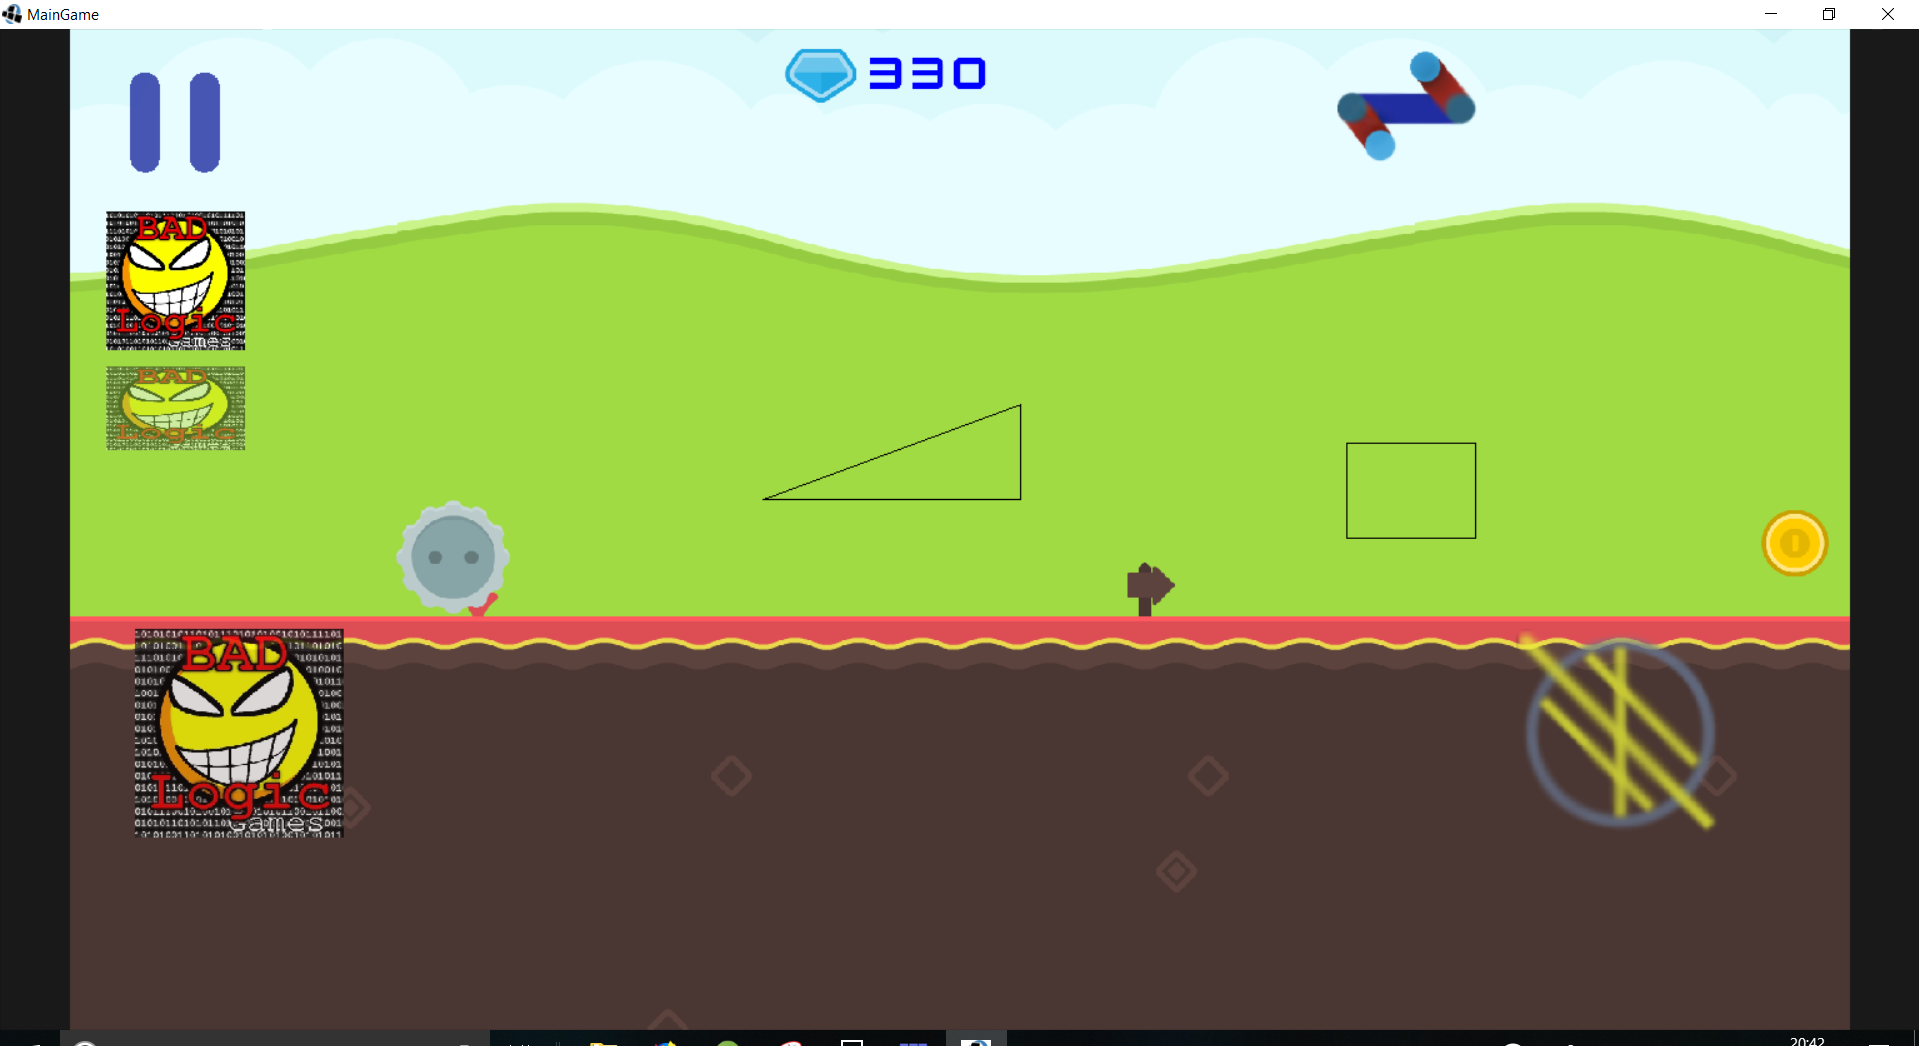
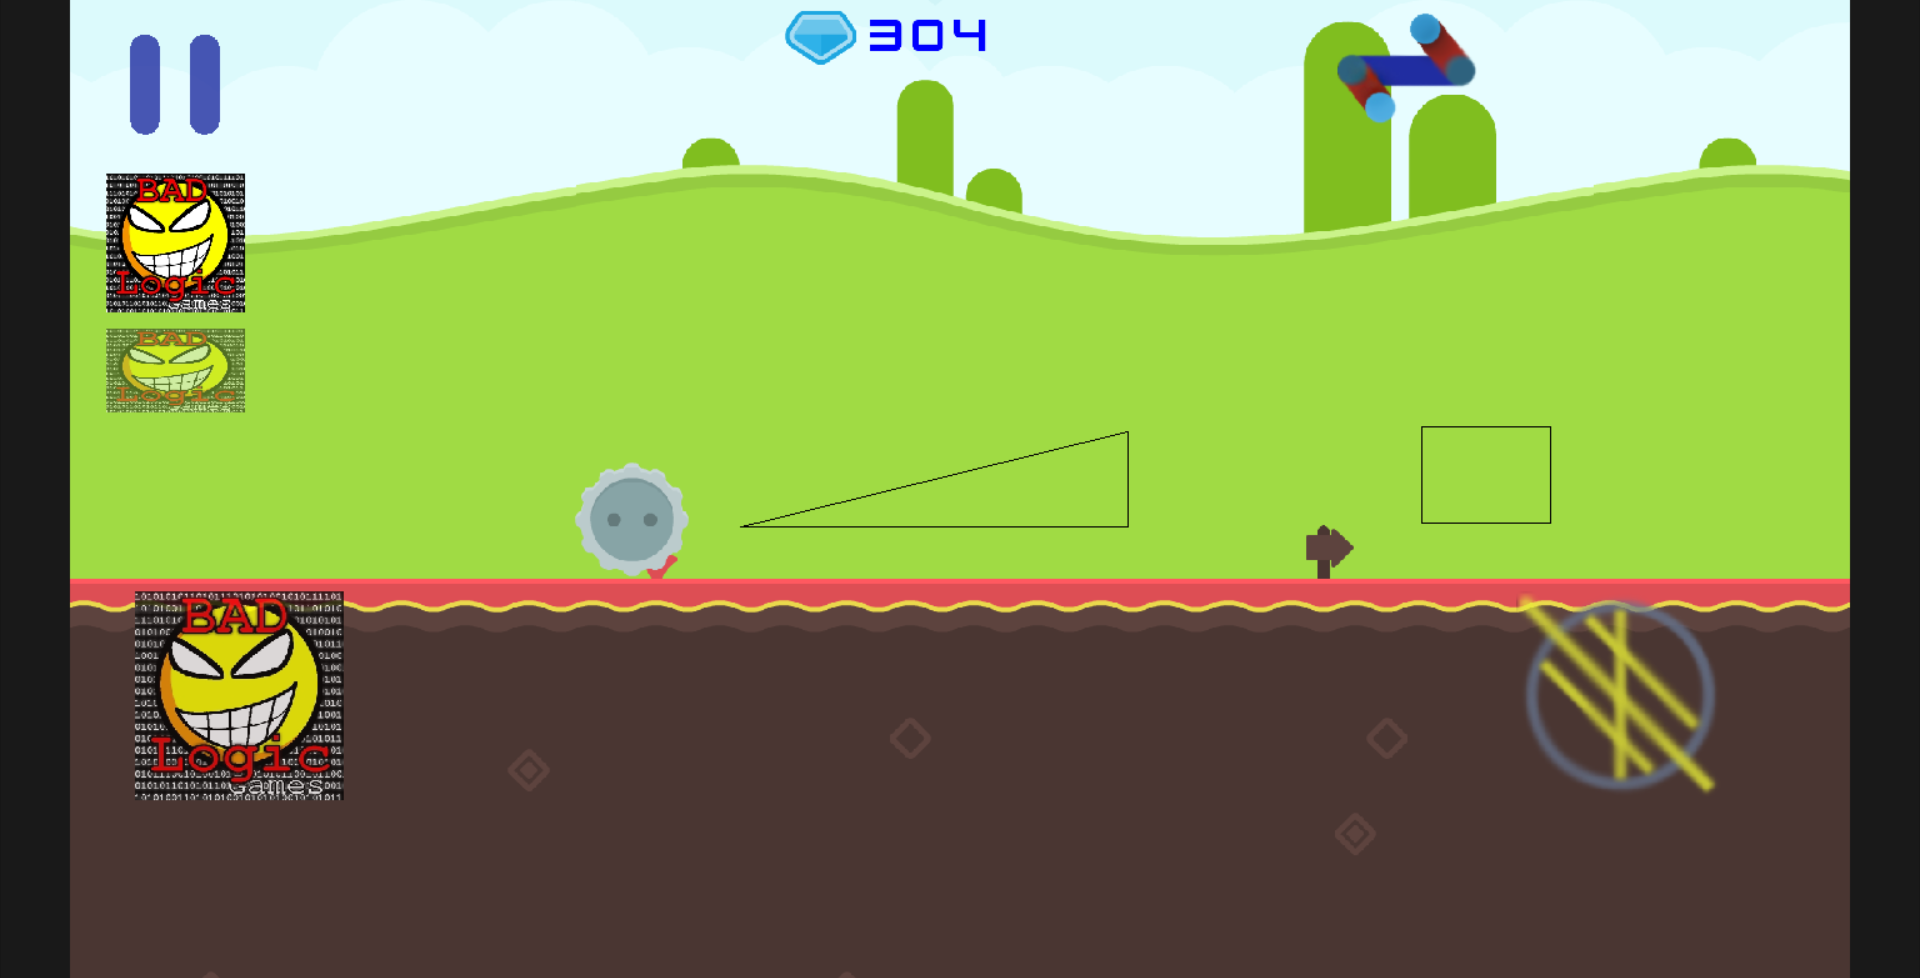
rage mode enhanced

diff --git a/core/src/com/kunal/PlayGround/TypeTwoArea/TypeTwoArea.java b/core/src/com/kunal/PlayGround/TypeTwoArea/TypeTwoArea.java
@@ -776,7 +776,7 @@ public class TypeTwoArea implements Screen {
         //==-------------------------------------------------------------------------------------
 
 
-        System.out.println(cam.position.x);
+        //System.out.println(cam.position.x);
 
         coin1.setAlpha(1-coin1Alpha);
         coin2.setAlpha(1-coin2Alpha);
@@ -855,10 +855,15 @@ public class TypeTwoArea implements Screen {
         //System.out.println(AllVariables.BackWheel.getLinearVelocity().x);
 
         if (AllVariables.PresentLevelNumber >= 6)
-        if (AllVariables.BackWheel.getLinearVelocity().x >= 20f) {
-            AllVariables.BackWheel.setLinearVelocity((AllVariables.BackWheel.getLinearVelocity().x - AllVariables.BackWheel.getLinearVelocity().x*.01f) ,
-                    AllVariables.BackWheel.getLinearVelocity().y);
-            if (AllVariables.BackWheel.getLinearVelocity().x >= 22f)
+        if (AllVariables.BackWheel.getLinearVelocity().x >= 17f) {
+            if (AllVariables.BackWheel.getLinearVelocity().x>20)
+                AllVariables.BackWheel.setLinearVelocity((AllVariables.BackWheel.getLinearVelocity().x - AllVariables.BackWheel.getLinearVelocity().x*.05f) ,
+                        AllVariables.BackWheel.getLinearVelocity().y);
+            else
+                AllVariables.BackWheel.setLinearVelocity((AllVariables.BackWheel.getLinearVelocity().x - AllVariables.BackWheel.getLinearVelocity().x*.02f) ,
+                        AllVariables.BackWheel.getLinearVelocity().y);
+
+            if (AllVariables.BackWheel.getLinearVelocity().x >= 18f)
                 VariablesForPlayArea.rageMode = true;
         } else
             VariablesForPlayArea.rageMode = false;
@@ -1347,6 +1352,7 @@ public class TypeTwoArea implements Screen {
                                     && screenX < (960 * AllVariables.inpM) + AllVariables.witdth_translation
                                     && screenY > 530 * AllVariables.inpM && screenY < 635 * AllVariables.inpM) {
                                 game.setScreen(new LevelNumberSelection(game));
+                                VariablesForPlayArea.flush();
 
                             }
 

diff --git a/core/src/com/kunal/utils/ReDirectToTheLevel.java b/core/src/com/kunal/utils/ReDirectToTheLevel.java
@@ -118,14 +118,6 @@ public class ReDirectToTheLevel {
                 speedctlrvar.y = 520;
                 VariablesForPlayArea.speedCtrlList.add(speedctlrvar);
 
-                powerupVar = new PowerUpInInventoryVariables();
-                powerupVar.TypeOfPower = 1;
-                VariablesForPlayArea.powerUpList.add(powerupVar);
-
-                powerupVar = new PowerUpInInventoryVariables();
-                powerupVar.TypeOfPower = 2;
-                VariablesForPlayArea.powerUpList.add(powerupVar);
-
                 fullSawVariables = new FullSawVariables();
                 fullSawVariables.xpos = 1000;
                 fullSawVariables.ypos = 572;
